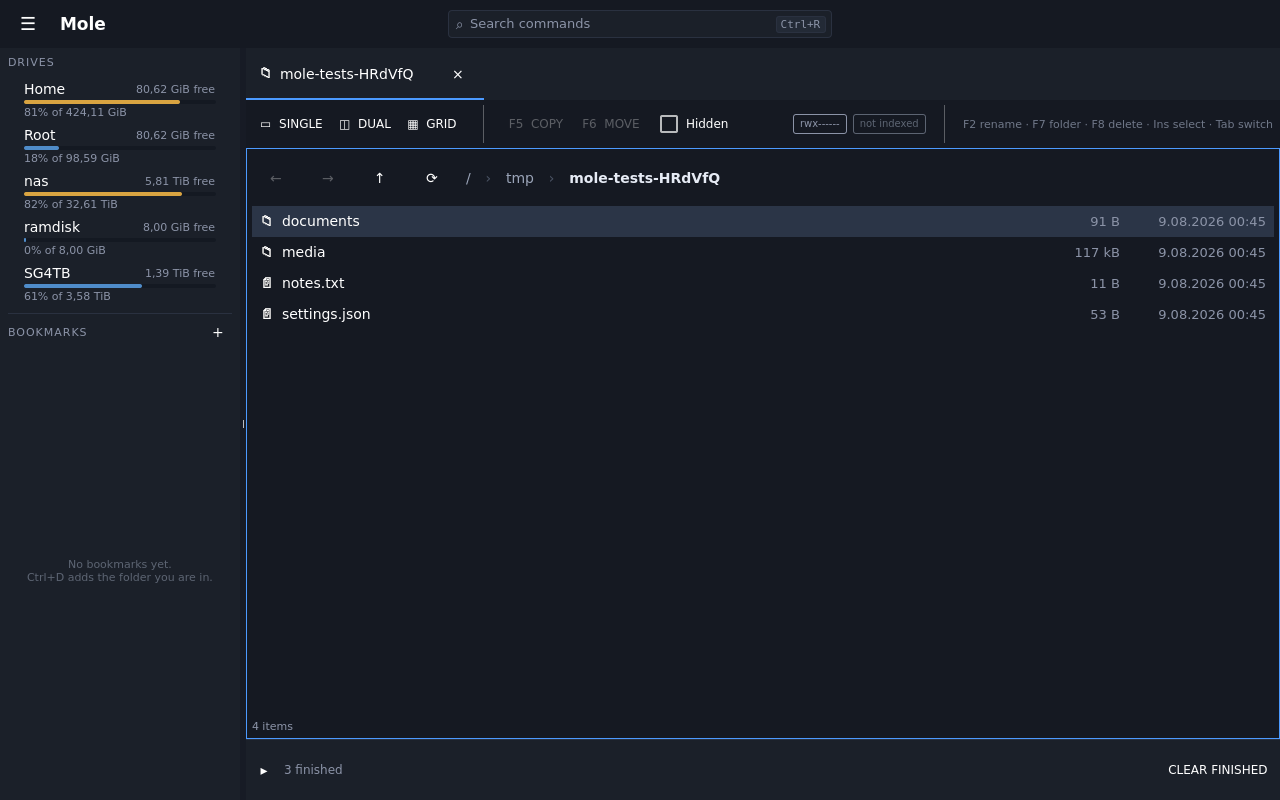
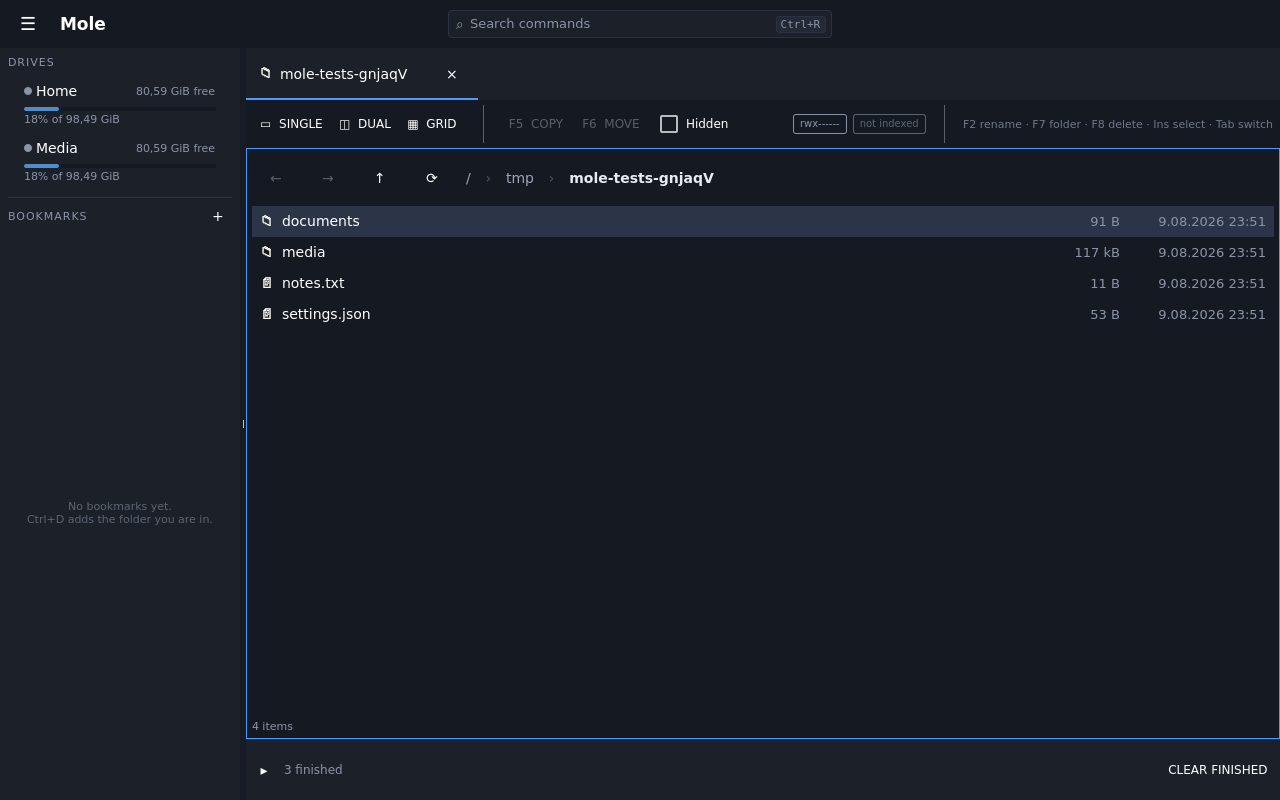
The guide's screenshots show a fixture, not a desk
Every picture in the user guide is a window the walkthrough photographed, and
the sidebar in that window listed whatever the machine running it had mounted.
So the guide showed this desk's volumes by name -- nas, SG4TB, ramdisk -- with
their capacities and how full each one was, as an illustration of what the
application looks like.

It is milder than a path with an account name in it: a volume called SG4TB is a
4 TB Seagate and identifies nobody. But it is one person's machine on a page
that exists to show the software, and "the drives happen to be whatever the
author had plugged in" is not a reason for them to be there.

mountDefaultDrives() takes a fixed list from MOLE_DRIVES when one is given,
written as "Name=/path;Other=/path", instead of enumerating what the operating
system has. The harness sets it, so every window it photographs shows Home --
the fixture the tests already work in -- and an empty Media beside it.

Reproducible as well as anonymous, which is the better half of it: the same run
on another machine now produces the same sidebar, so a picture that changes is
a picture whose feature changed rather than a picture taken somewhere else.
That was the reason to prefer this over recording in TODO.md that we live with
it.

Home is the fixture rather than a directory of its own. The application starts
in the fixture, so something has to be mounted over it, and a home directory is
exactly what that is. Pointing the drives elsewhere left the start location
[…]

diff --git a/tests/support/QmlAppHarness.cpp b/tests/support/QmlAppHarness.cpp
@@ -46,7 +46,8 @@ bool QmlAppHarness::start(const Options& options, QString* errorOut)
     // scheduler starts on its own, and it would run their jobs.
     m_profile = std::make_unique<PrivateProfile>();
     m_fixture = std::make_unique<QTemporaryDir>();
-    if (!m_profile->isValid() || !m_fixture->isValid())
+    m_drives = std::make_unique<QTemporaryDir>();
+    if (!m_profile->isValid() || !m_fixture->isValid() || !m_drives->isValid())
         return fail(QStringLiteral("could not create temporary directories"));
 
     m_screenshotDirectory = options.screenshotDirectory;
@@ -83,6 +84,18 @@ bool QmlAppHarness::build(QString* errorOut)
     // it would be checking an empty application.
     qputenv("MOLE_PLUGIN_PATH", QByteArray(MOLE_TEST_PLUGIN_DIR));
 
+    // A drive list that came from the fixture rather than from whichever desk
+    // this is running on. Every picture in the user guide is one of these
+    // windows photographed, and the sidebar used to show the machine's own
+    // volumes by name and capacity -- see the note in mountDefaultDrives().
+    // Home is the fixture itself: the application starts there, so something
+    // has to be mounted over it, and that is exactly what a home directory is.
+    // Media is a second, empty drive so the list is not one row long.
+    const QString media = QDir(m_drives->path()).filePath(QStringLiteral("media"));
+    QDir().mkpath(media);
+    qputenv("MOLE_DRIVES",
+        QStringLiteral("Home=%1;Media=%2").arg(fixturePath(), media).toLocal8Bit());
+
     m_app = std::make_unique<AppController>();
     std::vector<std::unique_ptr<IPlugin>> builtIns;
     builtIns.push_back(std::make_unique<BuiltinPlugin>(startUri));
@@ -113,10 +126,14 @@ bool QmlAppHarness::build(QString* errorOut)
 
 void QmlAppHarness::stop()
 {
+    // Unset rather than left pointing at a directory that is about to go: a
+    // stale value would send the next application in this process to nowhere.
+    qunsetenv("MOLE_DRIVES");
     m_engine.reset();
     m_window = nullptr;
     m_app.reset();
     m_fixture.reset();
+    m_drives.reset();
     m_profile.reset();
 }
 

diff --git a/src/ui/AppController.cpp b/src/ui/AppController.cpp
@@ -383,6 +383,27 @@ void AppController::mountDefaultDrives()
         m_vfs->addMount(std::move(mount));
     };
 
+    // A fixed list, when one is given, instead of whatever this machine has
+    // mounted. Written as "Name=/path;Other=/path".
+    //
+    // For the screenshots, and for any test that photographs the window. The
+    // sidebar otherwise lists the volumes of whoever ran it, by their own names
+    // and with their own capacities -- which then went into a public repository
+    // as an illustration of what the application looks like. A picture of the
+    // fixture says the same thing about the software and nothing about a desk.
+    const QByteArray fixed = qgetenv("MOLE_DRIVES");
+    if (!fixed.isEmpty()) {
+        const QStringList entries
+            = QString::fromLocal8Bit(fixed).split(QLatin1Char(';'), Qt::SkipEmptyParts);
+        for (const QString& entry : entries) {
+            const qsizetype split = entry.indexOf(QLatin1Char('='));
+            if (split <= 0)
+                continue;
+            mountLocal(entry.left(split), entry.mid(split + 1));
+        }
+        return;
+    }
+
     // Home first: it is where the user actually keeps things, whatever the
     // partition layout underneath happens to be.
     mountLocal(QStringLiteral("Home"), QDir::homePath());

diff --git a/tests/support/QmlAppHarness.h b/tests/support/QmlAppHarness.h
@@ -113,6 +113,9 @@ private:
     Options m_options;
     std::unique_ptr<PrivateProfile> m_profile;
     std::unique_ptr<QTemporaryDir> m_fixture;
+    /// Where the sidebar's drives point. Its own directory rather than a corner
+    /// of the fixture, because the fixture is what the listing tests count.
+    std::unique_ptr<QTemporaryDir> m_drives;
     std::unique_ptr<AppController> m_app;
     std::unique_ptr<QQmlApplicationEngine> m_engine;
     QQuickWindow* m_window = nullptr;
